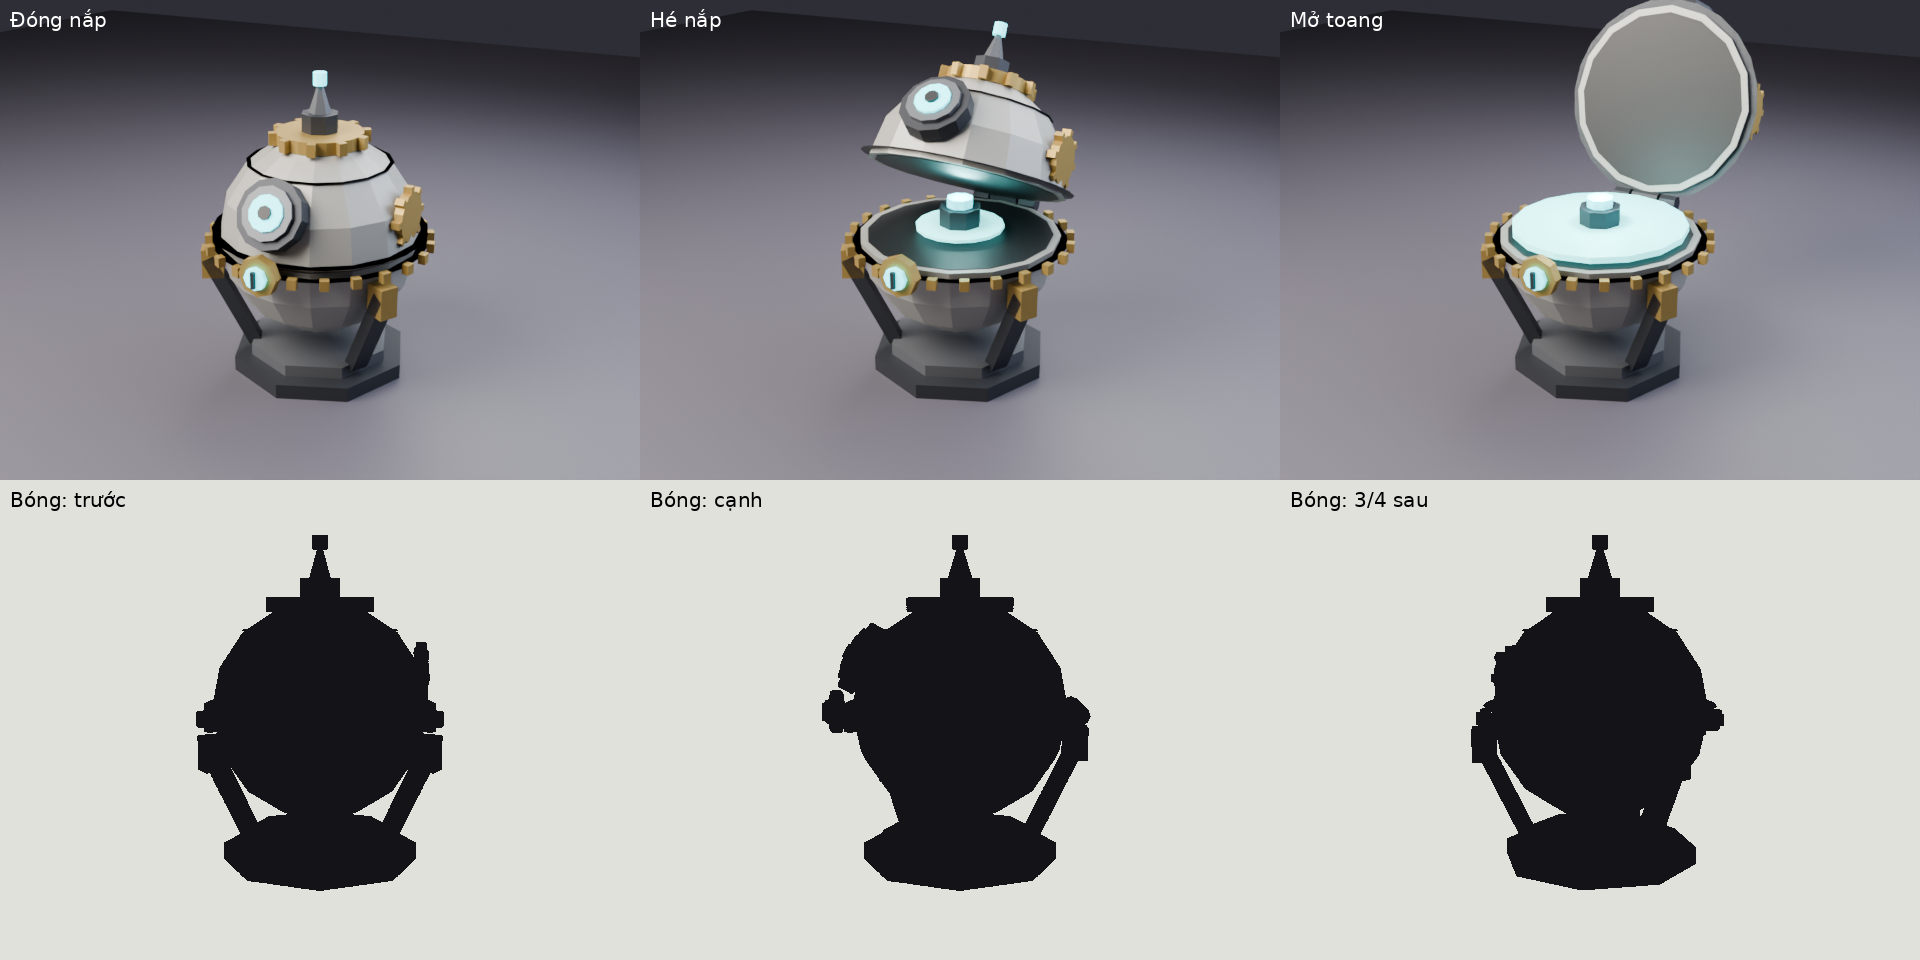
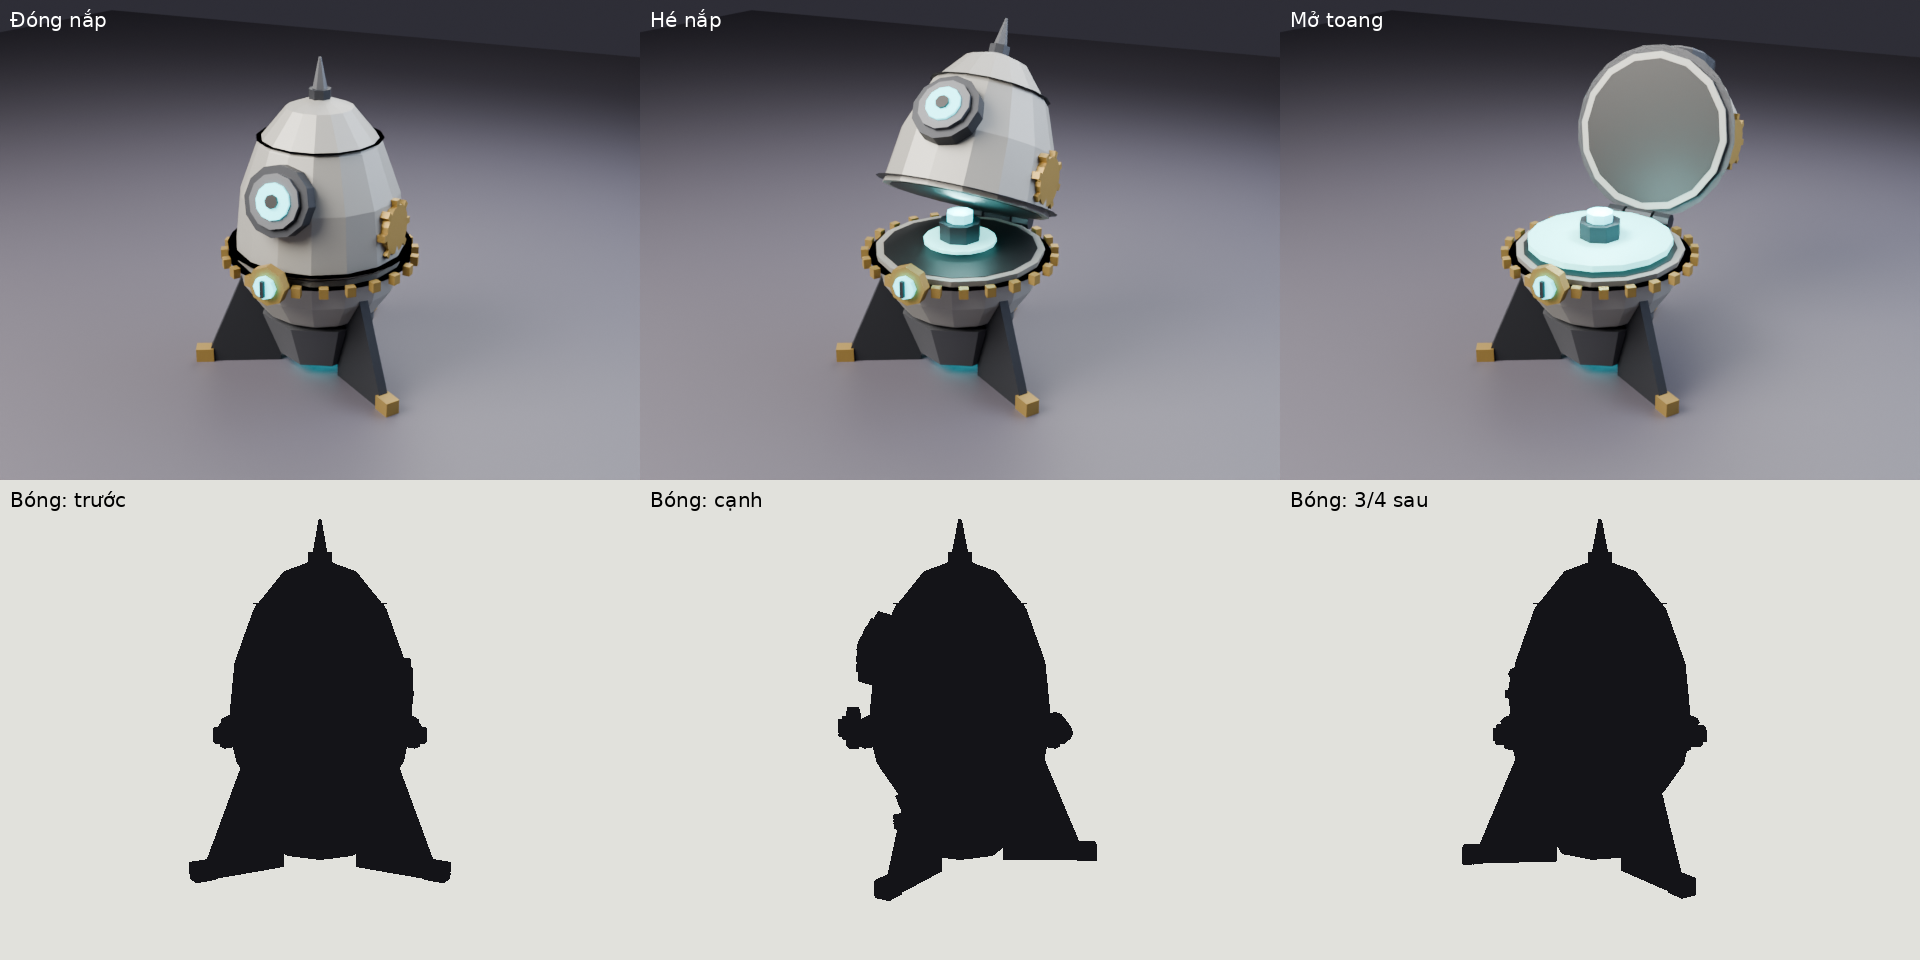
Rương Thiên Cơ: chỉnh dáng giống tên lửa (mũi thuôn, ba vây, loa phụt)
Claude-Session: https://claude.ai/code/session_01QKQCdaeqtE7i44JorsaAKK

diff --git a/Tools/Blender/make_chest_thien_co.py b/Tools/Blender/make_chest_thien_co.py
@@ -1,4 +1,4 @@
-"""Thien Co chest (temporary test version): a split mechanical sphere on a three-claw stand, built with bpy.
+"""Thien Co chest (temporary test version): a split mechanical rocket-pod (sphere hull with a nose-cone lid, three fins), built with bpy.
 
 Run:   python make_chest_thien_co.py -- <out.glb> [<preview.png> <samples> <width>]
 Layers: Chest_ThienCo (root) -> Body, Lid (origin on the back hinge, rotates about X, front is -Y), Glow (cyan halo
@@ -133,7 +133,8 @@ def join(objs):
 
 
 # ----------------------------------------------------------------------------------------------- build
-R, CZ = 0.165, 0.235                    # sphere radius and equator height -> total height ~0.43 m with finial
+R, CZ, NZ = 0.14, 0.21, 1.8            # radius, equator height, nose stretch of the lid -> rocket ~0.48 m
+TOP = CZ + R * NZ
 HINGE = Vector((0, R + 0.012, CZ))
 L = {"Body": [], "Lid": [], "Glow": [], "Seal": []}
 add = lambda layer, o: L[layer].append(o)
@@ -141,19 +142,18 @@ add = lambda layer, o: L[layer].append(o)
 
 def build():
     # stand: octagonal foot, three claws hugging the lower half
-    add("Body", cyl(0.15, 0.025, (0, 0, 0.0125), "iron", verts=8))
-    add("Body", cyl(0.12, 0.02, (0, 0, 0.035), "shell_dk", verts=8))
-    for k in range(3):
+    add("Body", cone(0.07, 0.10, 0.08, (0, 0, 0.06), "shell_dk", verts=8))      # engine nozzle under the hull
+    add("Body", cyl(0.05, 0.012, (0, 0, 0.026), "cyan", verts=8))                   # nozzle glow ring
+    for k in range(3):                                                             # three swept rocket fins
         a = math.radians(90 + 120 * k)
         d = Vector((math.cos(a), math.sin(a), 0))
-        root = d * 0.11 + Vector((0, 0, 0.04))
-        tip = d * (R + 0.02) + Vector((0, 0, CZ - 0.04))
-        mid = (root + tip) / 2
-        v = tip - root
-        rot = v.to_track_quat("Z", "Y").to_euler()
-        add("Body", box((0.03, 0.022, v.length), mid, "iron", rot=rot))
-        add("Body", box((0.036, 0.03, 0.05), tip + Vector((0, 0, -0.01)) - d * 0.008, "brass",
-                         rot=(0, 0, a)))
+        fin = box((0.13, 0.016, 0.21), d * (R * 0.95) + Vector((0, 0, 0.105)), "iron", rot=(0, 0, a))
+        for v in fin.data.vertices:                                                # sweep: top outer edge slides in
+            r = Vector((v.co.x, v.co.y, 0)).dot(d)
+            if v.co.z > 0.15 and r > R * 0.95:
+                v.co -= d * 0.09
+        add("Body", fin)
+        add("Body", box((0.03, 0.024, 0.024), d * (R * 0.95 + 0.065) + Vector((0, 0, 0.012)), "brass", rot=(0, 0, a)))
     # lower hemisphere + equator gear band
     add("Body", hemi(R, CZ, "shell", upper=False))
     add("Body", hemi(R - 0.012, CZ + 0.001, "interior", upper=False))   # dark cut face reads as cavity
@@ -170,23 +170,23 @@ def build():
         add("Body", cyl(0.014, 0.03, (sx * 0.045, HINGE.y, HINGE.z), "iron", verts=8, rot=(0, R90, 0)))
 
     # lid: upper hemisphere shell with gear plates and a cyan eye lens on the front
-    add("Lid", hemi(R, CZ + 0.002, "shell", upper=True))
-    add("Lid", hemi(R - 0.012, CZ + 0.001, "interior", upper=True))   # dark inside face of the lid
+    add("Lid", hemi(R, CZ + 0.002, "shell", upper=True, scale_z=NZ))
+    add("Lid", hemi(R - 0.012, CZ + 0.001, "interior", upper=True, scale_z=NZ))   # dark inside face of the lid
     add("Lid", ring(R + 0.012, R - 0.012, 0.016, CZ + 0.002, "shell_dk", verts=24))
     # latitude band (bánh răng dẹt ôm vòm)
     lat = math.radians(48)
-    add("Lid", ring(R * math.cos(lat) + 0.008, R * math.cos(lat) - 0.01, 0.014, CZ + R * math.sin(lat) - 0.007, "iron", verts=16))
+    add("Lid", ring(R * math.cos(lat) + 0.008, R * math.cos(lat) - 0.01, 0.014, CZ + R * NZ * math.sin(lat) - 0.007, "iron", verts=16))
     # top dome gear + finial
-    add("Lid", gear(0.07, 0.02, (0, 0, CZ + R - 0.004), "brass", teeth=10))
-    add("Lid", cyl(0.03, 0.03, (0, 0, CZ + R + 0.02), "iron", verts=8))
-    add("Lid", cone(0.018, 0.004, 0.045, (0, 0, CZ + R + 0.057), "shell_dk", verts=6))
-    add("Lid", cyl(0.011, 0.02, (0, 0, CZ + R + 0.088), "cyan", verts=8))
+    add("Lid", cyl(0.018, 0.03, (0, 0, TOP - 0.004), "iron", verts=8))
+    add("Lid", cone(0.012, 0.002, 0.05, (0, 0, TOP + 0.034), "shell_dk", verts=6))
+    add("Lid", cyl(0.008, 0.014, (0, 0, TOP + 0.012), "cyan", verts=8))
     # side gear on the right flank
     add("Lid", gear(0.04, 0.014, (R * 0.93, 0, CZ + 0.055), "brass", teeth=8, rot=(0, R90, 0), tooth=0.01))
     # the eye: tilted bezel + iris on the front
     el = math.radians(28)
-    n = Vector((0, -math.cos(el), math.sin(el)))
-    c = Vector((0, 0, CZ)) + n * (R + 0.004)
+    c = Vector((0, -R * math.cos(el), CZ + R * NZ * math.sin(el)))
+    n = Vector((0, -math.cos(el) / R, math.sin(el) / (R * NZ))).normalized()   # ellipsoid normal
+    c += n * 0.004
     erot = n.to_track_quat("Z", "Y").to_euler()
     add("Lid", cyl(0.055, 0.024, c, "iron", verts=12, rot=erot))
     add("Lid", cyl(0.042, 0.01, c + n * 0.014, "shell_dk", verts=12, rot=erot))

diff --git a/Docs/Art/BanGiao3D.md b/Docs/Art/BanGiao3D.md
@@ -193,7 +193,7 @@ Tham số: độ cao đường nối nắp theo đơn vị nguồn (0,03, nằm 
 
 ## Rương Thiên Cơ (dựng bằng Blender, tạm)
 
-`Assets/_Project/Art/Chests/Chest_ThienCo.glb`, **bản thử tạm**, chưa gán ID hay chủ đề vào dữ liệu game. Ý tưởng: [spec](../../docs/superpowers/specs/2026-11-24-ruong-thien-co-design.md). Dáng **quả cầu cơ khí tách đôi trên kiềng ba móng**, xích đạo là vành răng đồng, mặt trước nắp có mắt máy cyan (gợi TC2), bên trong có lõi cyan (gợi TC3).
+`Assets/_Project/Art/Chests/Chest_ThienCo.glb`, **bản thử tạm**, chưa gán ID hay chủ đề vào dữ liệu game. Ý tưởng: [spec](../../docs/superpowers/specs/2026-11-24-ruong-thien-co-design.md). Dáng **tên lửa cơ khí tách đôi**: thân dưới nửa cầu có loa phụt và ba vây xuôi (đứng trên vây, không đế), nắp là mũi tên lửa thuôn nhọn có chóp ăng-ten, xích đạo là vành răng đồng, mặt trước nắp có mắt máy cyan (gợi TC2), bên trong có lõi cyan (gợi TC3).
 
 ```
 pip install bpy pillow
@@ -201,7 +201,7 @@ python Tools/Blender/make_chest_thien_co.py -- Assets/_Project/Art/Chests/Chest_
 ```
 (Bỏ hai tham số cuối và đường dẫn ảnh nếu chỉ cần GLB.)
 
-- Lớp: root `Chest_ThienCo` gồm `Body` (1.036 tam giác), `Lid` (1.252, **gốc ở bản lề phía sau**, xoay quanh X, mặt trước là -Y), `Glow` (60, đĩa cyan ở miệng, ẩn bằng scale), `Seal` (68, núm khóa xoay ở mặt trước xích đạo). Tổng **2.416 tam giác**, cao ~0,50 m (kể cả chóp ăng-ten), vật liệu đơn sắc, cyan dùng emission, không texture.
+- Lớp: root `Chest_ThienCo` gồm `Body` (1.036 tam giác), `Lid` (1.056, **gốc ở bản lề phía sau**, xoay quanh X, mặt trước là -Y), `Glow` (60, đĩa cyan ở miệng, ẩn bằng scale), `Seal` (68, núm khóa xoay ở mặt trước xích đạo). Tổng **2.220 tam giác**, cao ~0,52 m (kể cả chóp ăng-ten), vật liệu đơn sắc, cyan dùng emission, không texture.
 - Không có `Key`, `Binding`.
 - Ảnh `Art/Source/render_chest_thien_co_open.png`: đóng, hé, mở toang, và 3 góc hình bóng; dựng ngoại tuyến bằng Cycles, **không phải ảnh từ Unity**. Chưa tạo prefab, chưa chạy trong Unity (đổi `lidOpenSign` nếu nắp mở ngược).
 - Điểm còn yếu: mặt trong nắp khi mở toang còn sáng xám, đĩa Glow phẳng và to.

diff --git a/docs/superpowers/specs/2026-11-24-ruong-thien-co-design.md b/docs/superpowers/specs/2026-11-24-ruong-thien-co-design.md
@@ -13,3 +13,7 @@ Rương mở khóa thuộc hệ tạo tác Thiên Cơ (TC1 ốc vít, TC2 mắt 
 - Hình bóng tròn trên chân kiềng khác hẳn hộp H1–H3, RD, rương Golden và các hình thùng, trụ, thân tàu, đàn, mũ phi hành gia của các phiên khác.
 - Nối thẳng với TC2 (mắt máy): mặt trước nửa trên có một thấu kính cyan như con mắt; lõi bên trong gợi TC3.
 - **Cách mở:** nửa cầu trên (Lid) xoay quanh bản lề ngang ở phía sau, ngay xích đạo, lật ra sau như vỏ sò cơ khí. Khi mở, quầng cyan (Glow) bừng lên ở miệng nửa dưới, nơi có lõi năng lượng nhỏ. Vòng xoay khóa (Seal) ở mặt trước xích đạo rơi ra trong giai đoạn gỡ niêm.
+
+## Chỉnh theo chủ dự án (2026-11-24): giống tên lửa hơn
+
+Nắp kéo dài thành mũi tên lửa thuôn nhọn, bỏ kiềng ba móng và đế, thay bằng ba vây xuôi và loa phụt có vòng cyan; tên lửa đứng trên vây. Cách mở giữ nguyên (mũi lật ra sau quanh bản lề). Lưu ý: gần chủ đề rương Không gian hơn trước, cần chủ dự án xem có trùng không.
